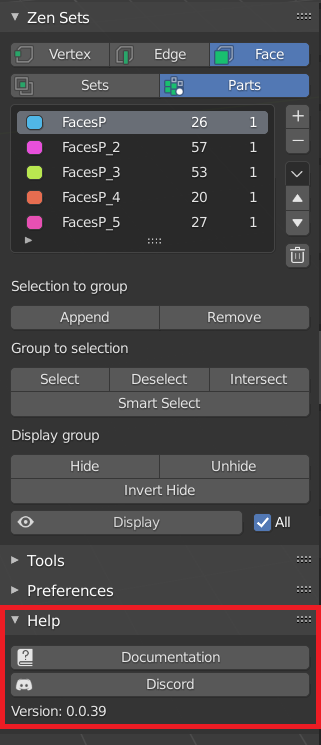
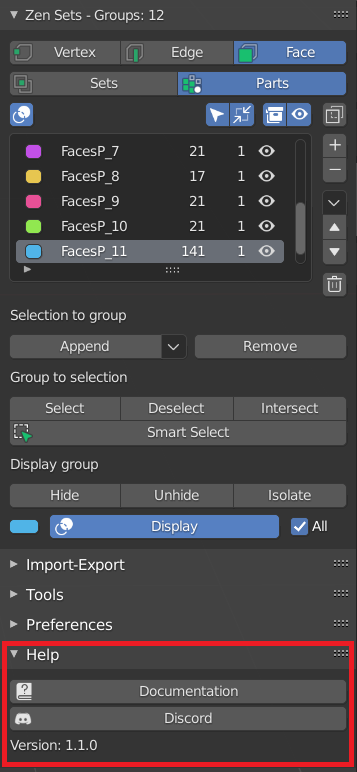
rebuild 1.1

diff --git a/docs/npanel/index.html b/docs/npanel/index.html
@@ -73,6 +73,30 @@
     </li>
     <li class="toctree-l3"><a class="reference internal" href="#toolbar">Toolbar</a>
     </li>
+    <li class="toctree-l3"><a class="reference internal" href="#sidebar">Sidebar</a>
+        <ul>
+    <li class="toctree-l4"><a class="reference internal" href="#add-new-group">Add New Group</a>
+    </li>
+    <li class="toctree-l4"><a class="reference internal" href="#delete-active-group">Delete Active Group</a>
+    </li>
+    <li class="toctree-l4"><a class="reference internal" href="#show-popup-menu">Show Popup menu</a>
+    </li>
+    <li class="toctree-l4"><a class="reference internal" href="#move-active-group-up">Move Active Group Up</a>
+    </li>
+    <li class="toctree-l4"><a class="reference internal" href="#move-active-group-down">Move Active Group Down</a>
+    </li>
+    <li class="toctree-l4"><a class="reference internal" href="#delete-groups">Delete Groups</a>
+    </li>
+        </ul>
+    </li>
+    <li class="toctree-l3"><a class="reference internal" href="#main-panel-popup-menu">Main panel Popup Menu</a>
+        <ul>
+    <li class="toctree-l4"><a class="reference internal" href="#select-all-objects-by-group-id">Select all objects by Group ID</a>
+    </li>
+    <li class="toctree-l4"><a class="reference internal" href="#batch-rename-groups">Batch rename Groups</a>
+    </li>
+        </ul>
+    </li>
     <li class="toctree-l3"><a class="reference internal" href="#selection-to-group">Selection to group</a>
         <ul>
     <li class="toctree-l4"><a class="reference internal" href="#append">Append</a>
@@ -178,11 +202,12 @@
             <div class="section">
               
                 <h1 id="zen-sets-n-panel">Zen Sets N-Panel</h1>
-<p>N-Panel contains all Zen Sets addon functionality and consits of Main, <a href="../imp_exp/">Import-Export</a>, <a href="../tools/">Tools</a>, <a href="../preferences/">Preferences</a> and <a href="../help/">Help</a> collapsible subpanels.</p>
-<blockquote>
-<p><strong>NOTICE! This panel is available only in edit mode, when the object being edited as a mesh</strong></p>
-</blockquote>
-<p><img alt="npanel" src="../img/screen/n_panel/n_panel_preview.gif" /></p>
+<p>N-Panel contains all Zen Sets addon functionality and consits of <a href="#main-subpanel">Main</a>, <a href="../imp_exp/">Import-Export</a>, <a href="../tools/">Tools</a>, <a href="../preferences/">Preferences</a> and <a href="../help/">Help</a> collapsible subpanels.</p>
+<div class="admonition notice">
+<p class="admonition-title">Notice</p>
+<p><strong>This panel is available only in edit mode, when the object is being edited as a mesh</strong></p>
+</div>
+<p><img alt="npanel" src="../img/screen/n_panel/n_panel_preview.gif" />    </p>
 <hr />
 <h2 id="main-subpanel">Main Subpanel</h2>
 <p>Contains all basic functionality for managing Zen Sets</p>
@@ -190,10 +215,16 @@
 <h3 id="active-zen-sets-element-switch">Active Zen Sets Element Switch</h3>
 <p>Gives an option to change type of mesh geometry (vertex, edge or face) that can be assigned to a group</p>
 <p><img alt="npanel_elements" src="../img/screen/elements.png" /></p>
-<blockquote>
-<p><strong>NOTICE! Zen Sets active element is synchronized with the Blender mesh selection mode</strong></p>
-</blockquote>
-<p><img alt="elem_sync" src="../img/screen/elements_sync.gif" /></p>
+<div class="admonition notice">
+<p class="admonition-title">Notice</p>
+<p><strong>Zen Sets active element is synchronized with the Blender mesh selection mode by default</strong>
+<img alt="elem_sync" src="../img/screen/elements_sync.gif" /></p>
+</div>
+<div class="admonition notice">
+<p class="admonition-title">Notice</p>
+<p><strong>You can disable synchronization with mesh selection in addon preferences</strong>
+<img alt="sync_with_mesh_select" src="../img/screen/preferences/sync_with_mesh_select.png" /></p>
+</div>
 <h3 id="active-zen-sets-mode-switch">Active Zen Sets Mode Switch</h3>
 <p><img alt="Modes" src="../img/screen/modes.png" /></p>
 <h4 id="sets-mode">Sets mode</h4>
@@ -213,31 +244,71 @@ Shows how many mesh elements (verts, edges or faces) are in the current group</l
 <li><strong>Objects Count</strong>
 Shows how many objects in edit mode has elements with the same group</li>
 <li><strong>Visibility Group Icon (eye icon)</strong><ul>
-<li>Group is completely visible
-<img alt="n_panel_list_visible_icon" src="../img/screen/n_panel/n_panel_list_visible_icon.png" /></li>
-<li>Group is partially visible
-<img alt="n_panel_list_partially_visible_icon" src="../img/screen/n_panel/n_panel_list_partially_visible_icon.png" /></li>
-<li>Group is completely hidden
-<img alt="n_panel_list_hidden_icon" src="../img/screen/n_panel/n_panel_list_hidden_icon.png" /></li>
+<li>Group is completely visible<ul>
+<li><img alt="n_panel_list_visible_icon" src="../img/screen/n_panel/n_panel_list_visible_icon.png" /></li>
+</ul>
+</li>
+<li>Group is partially visible<ul>
+<li><img alt="n_panel_list_partially_visible_icon" src="../img/screen/n_panel/n_panel_list_partially_visible_icon.png" /></li>
+</ul>
+</li>
+<li>Group is completely hidden<ul>
+<li><img alt="n_panel_list_hidden_icon" src="../img/screen/n_panel/n_panel_list_hidden_icon.png" /></li>
+</ul>
+</li>
 </ul>
 </li>
 </ul>
 <h3 id="toolbar">Toolbar</h3>
 <p><img alt="n_panel_toolbar" src="../img/screen/n_panel/n_panel_toolbar.png" /></p>
-<p>The Toolbar shows buttons for each tool</p>
-<p><img alt="n_panel_toolbar_animation" src="../img/screen/n_panel/n_panel_toolbar_animation.gif" />
-- <strong>Display Groups in Viewport</strong>
-<img alt="n_panel_toolbar_overlay" src="../img/screen/n_panel/n_panel_toolbar_overlay.png" />
-- <strong>Selection follows Selected Group</strong> (Select all elements after Selected Group has been changed)
-<img alt="n_panel_toolbar_single_select" src="../img/screen/n_panel/n_panel_toolbar_single_select.png" />
-- <strong>Auto Frame Selected Elements</strong> (Move the view to the Selected elements center when selection changes)
-<img alt="n_panel_toolbar_auto_frame" src="../img/screen/n_panel/n_panel_toolbar_auto_frame.png" />
-- <strong>Display count of objects that have the Group</strong>
-<img alt="n_panel_toolbar_objects_info" src="../img/screen/n_panel/n_panel_toolbar_objects_info.png" />
-- <strong>Display hidden Groups Info</strong>
-<img alt="n_panel_list_visible_icon" src="../img/screen/n_panel/n_panel_toolbar_visibility_info.png" />
-- <strong>Display all scene Groups or selected object groups</strong>
-<img alt="n_panel_toolbar_display_all_scene_groups" src="../img/screen/n_panel/n_panel_toolbar_display_all_scene_groups.png" /></p>
+<p>The Toolbar shows <a href="#groups-list">Groups List</a> main settings and <a href="#display">Display toggle button</a></p>
+<p><img alt="n_panel_toolbar_animation" src="../img/screen/n_panel/n_panel_toolbar_animation.gif" /></p>
+<ul>
+<li>
+<p><img alt="n_panel_toolbar_overlay" src="../img/screen/n_panel/n_panel_toolbar_overlay.png" /> <strong>Display Groups in Viewport</strong></p>
+</li>
+<li>
+<p><img alt="n_panel_toolbar_single_select" src="../img/screen/n_panel/n_panel_toolbar_single_select.png" /> <strong>Selection follows Selected Group</strong> (Select all elements after Selected Group has been changed)</p>
+</li>
+<li>
+<p><img alt="n_panel_toolbar_auto_frame" src="../img/screen/n_panel/n_panel_toolbar_auto_frame.png" /> <strong>Auto Frame Selected Elements</strong> (Move the view to the Selected elements center when selection changes)</p>
+</li>
+<li>
+<p><img alt="n_panel_toolbar_objects_info" src="../img/screen/n_panel/n_panel_toolbar_objects_info.png" /> <strong>Display count of objects that have the Group</strong></p>
+</li>
+<li>
+<p><img alt="n_panel_list_visible_icon" src="../img/screen/n_panel/n_panel_toolbar_visibility_info.png" /> <strong>Display hidden Groups Info</strong></p>
+</li>
+<li>
+<p><img alt="n_panel_toolbar_display_all_scene_groups" src="../img/screen/n_panel/n_panel_toolbar_display_all_scene_groups.png" /> <strong>Display all scene Groups or selected object groups</strong></p>
+</li>
+</ul>
+<h3 id="sidebar">Sidebar</h3>
+<p><img alt="sidebar" src="../img/screen/n_panel/sidebar.png" /></p>
+<h4 id="add-new-group">Add New Group</h4>
+<p>Creates new Group from selected mesh elements</p>
+<h4 id="delete-active-group">Delete Active Group</h4>
+<p>Deletes Active Group from the selected Objects</p>
+<h4 id="show-popup-menu">Show Popup menu</h4>
+<p>Shows main panel Popup menu</p>
+<h4 id="move-active-group-up">Move Active Group Up</h4>
+<p>Moves active Group up in the Group List</p>
+<h4 id="move-active-group-down">Move Active Group Down</h4>
+<p>Moves active Group down in the Group List</p>
+<h4 id="delete-groups">Delete Groups</h4>
+<ul>
+<li><strong>Empty Groups</strong>
+Deletes Groups that does not contain any mesh elements</li>
+<li><strong>Delete All Groups</strong><ul>
+<li>Deletes all groups in the Scene if <strong>Display all scene Groups</strong> option <strong>is set</strong></li>
+<li>Deletes all groups in the Selected Objects if <strong>Display all scene Groups</strong> option <strong>is unset</strong></li>
+</ul>
+</li>
+</ul>
+<h3 id="main-panel-popup-menu">Main panel Popup Menu</h3>
+<p><img alt="popup" src="../img/screen/n_panel/popup.png" /></p>
+<h4 id="select-all-objects-by-group-id">Select all objects by Group ID</h4>
+<h4 id="batch-rename-groups">Batch rename Groups</h4>
 <h3 id="selection-to-group">Selection to group</h3>
 <h4 id="append">Append</h4>
 <p>Appends selected Elements to selected Group</p>
@@ -257,11 +328,17 @@ Shows how many objects in edit mode has elements with the same group</li>
 <p>Selects Group Elements intersected with mesh selection</p>
 <p><img alt="group_intersect" src="../img/screen/n_panel/group_intersect.gif" /></p>
 <h4 id="smart-select">Smart select</h4>
-<p>Depends on selected mesh elements and has the next behaviour:
-- <strong>Select Group by selected Elements in Viewport</strong>
-If mesh selection belongs to Zen Sets group, all group elements are selected and other elements are deselected
-- <strong>Deselect Active Group and select Elements that does not belong to any group</strong>
+<p>Depends on selected mesh elements and has the next behaviour:</p>
+<ul>
+<li>
+<p><strong>Select Group by selected Elements in Viewport</strong>
+If mesh selection belongs to Zen Sets group, all group elements are selected and other elements are deselected</p>
+</li>
+<li>
+<p><strong>Deselect Active Group and select Elements that does not belong to any group</strong>
 If mesh selection does not belong to any Zen Sets group, the active group is deselected and all mesh elements that don&rsquo;t have group metainformation are selected</p>
+</li>
+</ul>
 <p><img alt="smart_select" src="../img/screen/n_panel/group_smart_select.gif" /></p>
 <h3 id="display-group">Display group</h3>
 <p>You can highlight the active group in <a href="./#sets-mode">Sets mode</a> or all groups in <a href="./#parts-mode">Parts mode</a>. Also you can hide, unhide active group or hide elements that don&rsquo;t belong to the active group</p>
@@ -279,7 +356,7 @@ If mesh selection does not belong to any Zen Sets group, the active group is des
 <h2 id="tools-subpanel"><a href="../tools/">Tools Subpanel</a></h2>
 <p><img alt="tools" src="../img/screen/n_panel/tools.png" /></p>
 <h2 id="help-subpanel"><a href="../help/">Help Subpanel</a></h2>
-<p><img alt="" src="../img/screen/help.png" /></p>
+<p><img alt="help" src="../img/screen/help.png" /></p>
               
             </div>
           </div>

diff --git a/docs/troubleshooting/index.html b/docs/troubleshooting/index.html
@@ -81,7 +81,9 @@
                 <ul class="current">
                     <li class="toctree-l1 current"><a class="reference internal current" href="./">Troubleshooting</a>
     <ul class="current">
-    <li class="toctree-l2"><a class="reference internal" href="#i-cant-find-zen-sets-panel-in-the-n-panel">— I can't find Zen Sets panel in the N-panel.</a>
+    <li class="toctree-l2"><a class="reference internal" href="#i-cant-find-zen-sets-panel-in-the-n-panel">— I can't find Zen Sets panel in the N-panel</a>
+    </li>
+    <li class="toctree-l2"><a class="reference internal" href="#i-dont-see-auto-groups-in-face-sets-mode">— I don't see Auto Groups in Face Sets mode</a>
     </li>
     </ul>
                     </li>
@@ -124,8 +126,10 @@
             <div class="section">
               
                 <h1 id="troubleshooting">Troubleshooting</h1>
-<h2 id="i-cant-find-zen-sets-panel-in-the-n-panel">— I can&rsquo;t find Zen Sets panel in the N-panel.</h2>
-<p>— The Zen Sets panel is only present in <strong>Edit Mode.</strong></p>
+<h2 id="i-cant-find-zen-sets-panel-in-the-n-panel">— I can&rsquo;t find Zen Sets panel in the N-panel</h2>
+<p>— The Zen Sets panel is only present in <strong>Edit Mode</strong></p>
+<h2 id="i-dont-see-auto-groups-in-face-sets-mode">— I don&rsquo;t see Auto Groups in Face Sets mode</h2>
+<p>— Auto Groups is located only in Face Parts mode. You may create groups with &lsquo;Auto Groups&rsquo; option in Face Parts mode and copy them to any other Zen Sets mode</p>
 <!-- blank line -->
 <hr />
 <!-- blank line -->

diff --git a/docs/imp_exp/index.html b/docs/imp_exp/index.html
@@ -141,8 +141,31 @@
 <p><strong>NOTICE! Copy-Paste operation is available only for the same objects</strong></p>
 </blockquote>
 <h2 id="import-export-blender-vertex-colors">Import-export Blender Vertex Colors</h2>
+<p>Available in all Zen Sets modes</p>
+<p><img alt="export_vertex_colors" src="../img/screen/imp_exp/export_vertex_colors.png" /></p>
+<ul>
+<li>
+<p><strong>Active</strong> <br/>
+Imports-exports only active Group</p>
+</li>
+<li>
+<p><strong>All</strong> <br/>
+Imports-exports all Groups</p>
+</li>
+<li>
+<p><strong>Generate New Vertex Color Layer</strong> <br/>
+Creates new Vertex Color layer for every Zen Sets Group</p>
+</li>
+</ul>
+<blockquote>
+<p><strong>NOTICE! <a href="https://blender.stackexchange.com/questions/166257/are-vertex-color-layers-limited-to-8">Blender Vertex Color Layers count are limited to 8 !</a></strong></p>
+</blockquote>
 <h2 id="import-export-blender-vertex-groups">Import-export Blender Vertex Groups</h2>
+<p>Available in Zen Sets Vert Sets, Vert Parts modes</p>
+<p><img alt="export_vertex_groups" src="../img/screen/imp_exp/export_vertex_groups.png" /></p>
 <h2 id="import-export-blender-face-maps">Import-export Blender Face Maps</h2>
+<p>Available in Zen Sets Face Sets, Face Parts modes</p>
+<p><img alt="export_face_maps" src="../img/screen/imp_exp/export_face_maps.png" /></p>
               
             </div>
           </div>

diff --git a/docs/tools/index.html b/docs/tools/index.html
@@ -65,6 +65,16 @@
                 <ul class="current">
                     <li class="toctree-l1 current"><a class="reference internal current" href="./">Tools</a>
     <ul class="current">
+    <li class="toctree-l2"><a class="reference internal" href="#auto-groups">Auto Groups</a>
+    </li>
+    <li class="toctree-l2"><a class="reference internal" href="#create-objects-from-groups">Create Objects from Groups</a>
+    </li>
+    <li class="toctree-l2"><a class="reference internal" href="#assign-materials-to-groups">Assign materials to Groups</a>
+    </li>
+    <li class="toctree-l2"><a class="reference internal" href="#split-group-edges">Split Group edges</a>
+    </li>
+    <li class="toctree-l2"><a class="reference internal" href="#mark-and-clear-seams">Mark and clear seams</a>
+    </li>
     </ul>
                     </li>
                 </ul>
@@ -122,6 +132,12 @@
             <div class="section">
               
                 <h1 id="tools">Tools</h1>
+<p><img alt="tools" src="../img/screen/n_panel/tools.png" /></p>
+<h2 id="auto-groups">Auto Groups</h2>
+<h2 id="create-objects-from-groups">Create Objects from Groups</h2>
+<h2 id="assign-materials-to-groups">Assign materials to Groups</h2>
+<h2 id="split-group-edges">Split Group edges</h2>
+<h2 id="mark-and-clear-seams">Mark and clear seams</h2>
               
             </div>
           </div>

diff --git a/docs/index.html b/docs/index.html
@@ -135,7 +135,7 @@
           <div role="main">
             <div class="section">
               
-                <h1 id="zen-sets-for-blender-10">Zen Sets for Blender 1.0</h1>
+                <h1 id="zen-sets-for-blender-11">Zen Sets for Blender 1.1</h1>
 <!-- ![IntroSets](img/IntroSets.png) -->
 <!-- blank line -->
 <div style="position: relative; width: 100%; height: 0; padding-bottom: 56.25%;">
@@ -172,9 +172,8 @@
 <li><strong>Possibility to use Zen Sets Groups by external operators</strong>. Implement Zen Sets for your own pipelines.</li>
 </ul>
 <h2 id="default-shortcuts">Default Shortcuts</h2>
-<ul>
-<li>Zen Sets Pie Menu &mdash; <code>Ctrl + Shift + D</code></li>
-</ul>
+<p>You may override or disable every Zen Sets hotkey in addon preferences Keymap section</p>
+<p><img alt="shortcuts" src="img/screen/preferences/shortcuts.png" /></p>
               
             </div>
           </div>
@@ -229,5 +228,5 @@
 
 <!--
 MkDocs version : 1.2.3
-Build Date UTC : 2021-12-06 09:11:40.935018+00:00
+Build Date UTC : 2021-12-06 14:21:29.186196+00:00
 -->
